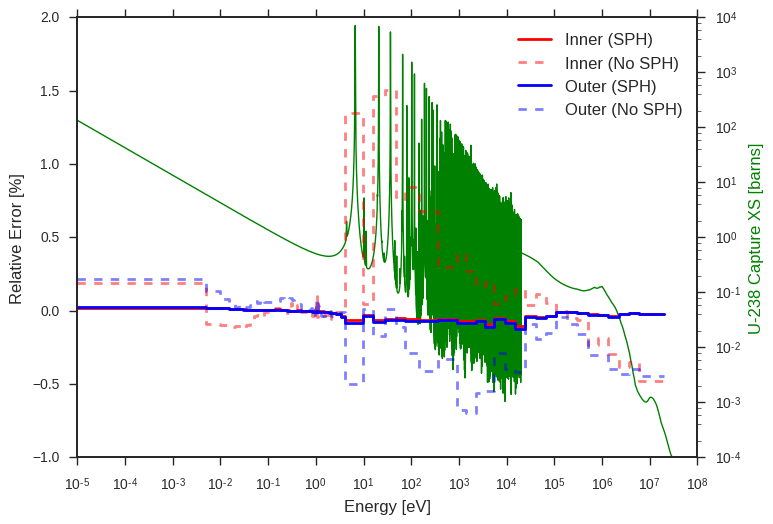
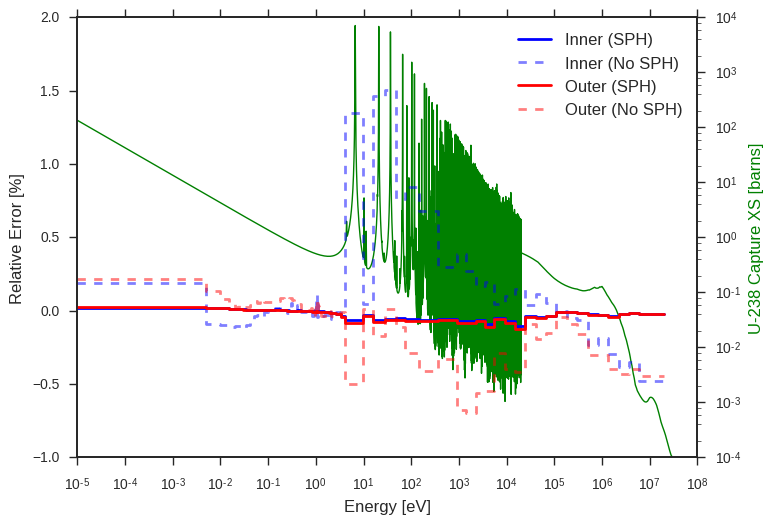
Fixed a few things with SPH Plotting for slab

diff --git a/data/biases-sph/slab/plot-flux-sph.py b/data/biases-sph/slab/plot-flux-sph.py
@@ -57,6 +57,8 @@ sph, sph_mgxs_lib, sph_indices = \
         mgxs_lib, num_azim=128, azim_spacing=0.01, sph_tol=1E-7,
         num_threads=opts.num_omp_threads, max_sph_iters=20)
 
+print(np.argmin(sph, axis=1))
+
 # Load the SPH-corrected MGXS library data
 materials = \
     openmoc.materialize.load_openmc_mgxs_lib(sph_mgxs_lib, openmoc_geometry)
@@ -178,13 +180,13 @@ max_fsr = fuel_fsrs[np.argmax(fuel_centroids)]
 fig, ax1 = plt.subplots()
 
 plt.plot(group_edges, rel_err[min_fsr,:],
-         drawstyle='steps', color='r', linestyle='-', linewidth=2)
-plt.plot(group_edges, rel_err_no_sph[min_fsr,:], alpha=0.5,
-         drawstyle='steps', color='r', linestyle='--', linewidth=2)
-plt.plot(group_edges, rel_err[max_fsr,:],
          drawstyle='steps', color='b', linestyle='-', linewidth=2)
-plt.plot(group_edges, rel_err_no_sph[max_fsr,:], alpha=0.5,
+plt.plot(group_edges, rel_err_no_sph[min_fsr,:], alpha=0.5,
          drawstyle='steps', color='b', linestyle='--', linewidth=2)
+plt.plot(group_edges, rel_err[max_fsr,:],
+         drawstyle='steps', color='r', linestyle='-', linewidth=2)
+plt.plot(group_edges, rel_err_no_sph[max_fsr,:], alpha=0.5,
+         drawstyle='steps', color='r', linestyle='--', linewidth=2)
 
 plt.xlabel('Energy [eV]', fontsize=12)
 plt.ylabel('Relative Error [%]', fontsize=12)
@@ -212,7 +214,7 @@ plt.close()
 ###############################################################################
 
 # Reverse the SPH factors in energy for plotting
-new_sph = sph[:,::-1]
+sph = sph[:,::-1]
 
 # Extend the mgxs values array for matplotlib's step plot of fluxes
 new_sph = np.insert(sph, 0, sph[:,0], axis=1)
@@ -223,9 +225,9 @@ max_fsr = fuel_fsrs[np.argmax(fuel_centroids)]
 # Plot the error for the innermost and outermost FSRS atop each other
 fig, ax1 = plt.subplots()
 
-plt.plot(group_edges, new_sph[min_fsr,::-1],
+plt.plot(group_edges, new_sph[min_fsr,:],
          drawstyle='steps', color='b', linewidth=2)
-plt.plot(group_edges, new_sph[max_fsr,::-1],
+plt.plot(group_edges, new_sph[max_fsr,:],
          drawstyle='steps', color='r', linewidth=2)
 
 plt.xlabel('Energy [eV]', fontsize=12)
@@ -257,7 +259,7 @@ plt.close()
 fig = plt.figure()
 
 # Array index for group 27 with the U-238 capture resonance at 6.67ev
-group_index = 70 - 27 + 1
+group_index = 70 - 27 # + 1
 
 centroid_indices = np.argsort(fuel_centroids)
 fuel_indices = fuel_fsrs[centroid_indices]
